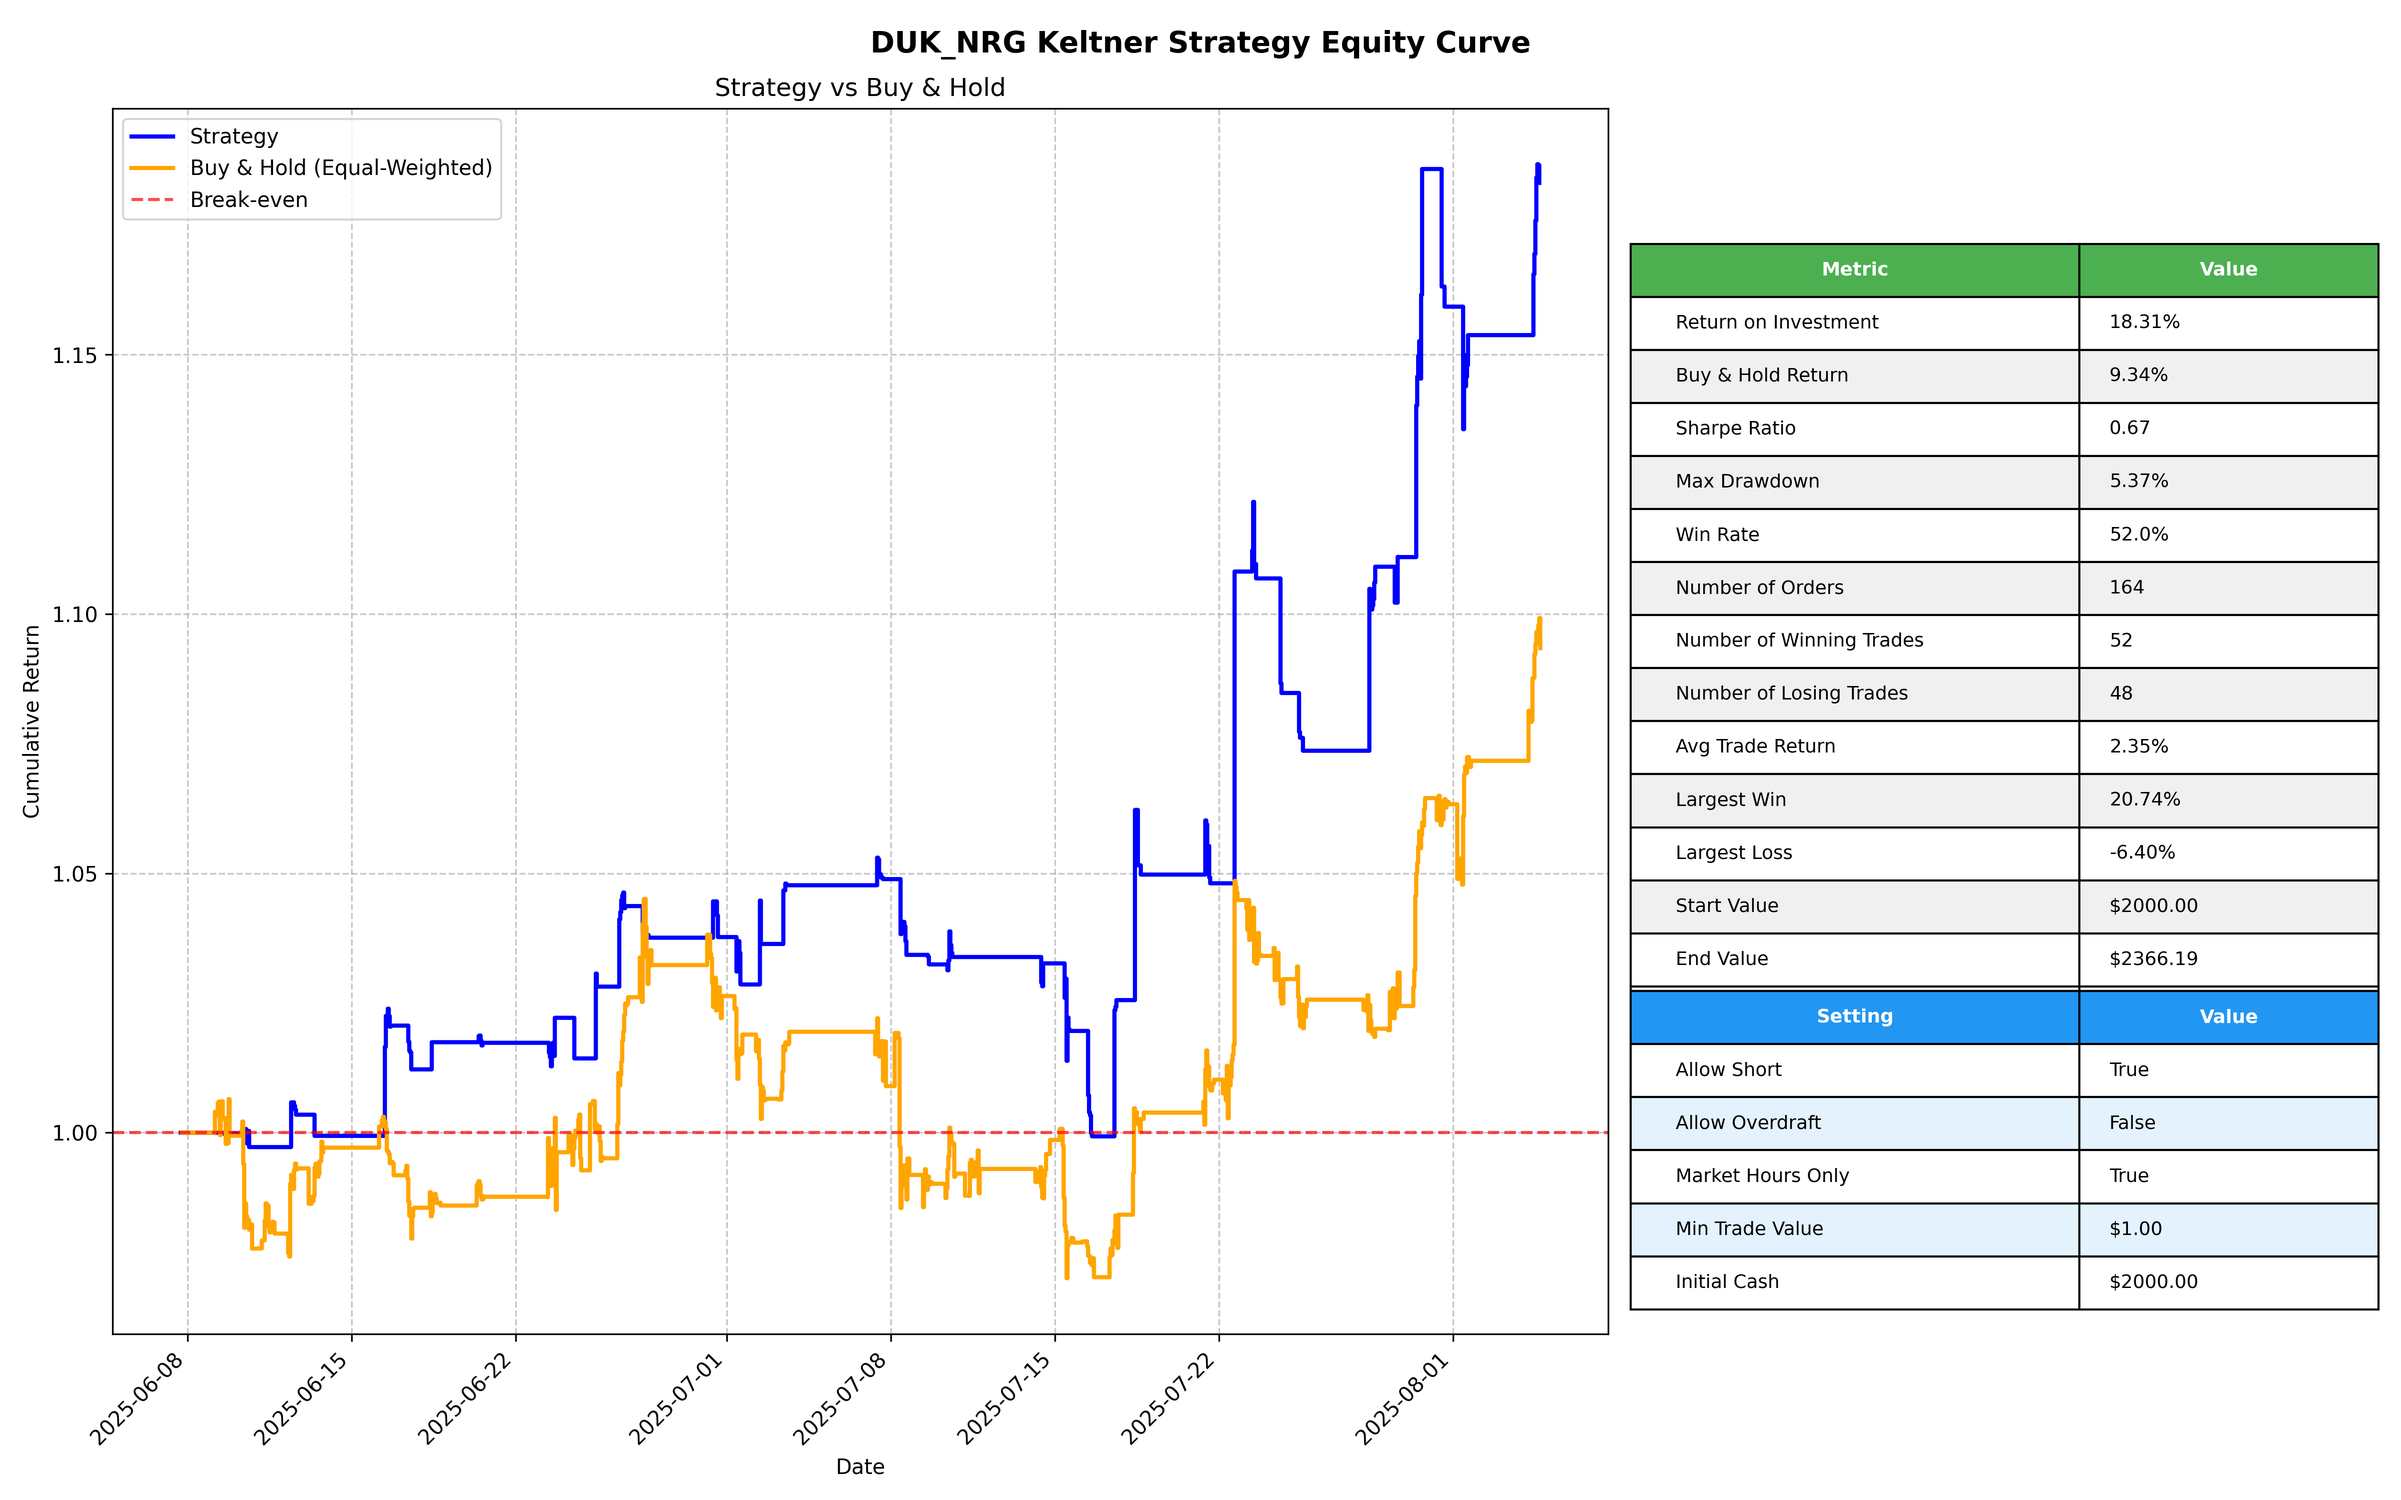
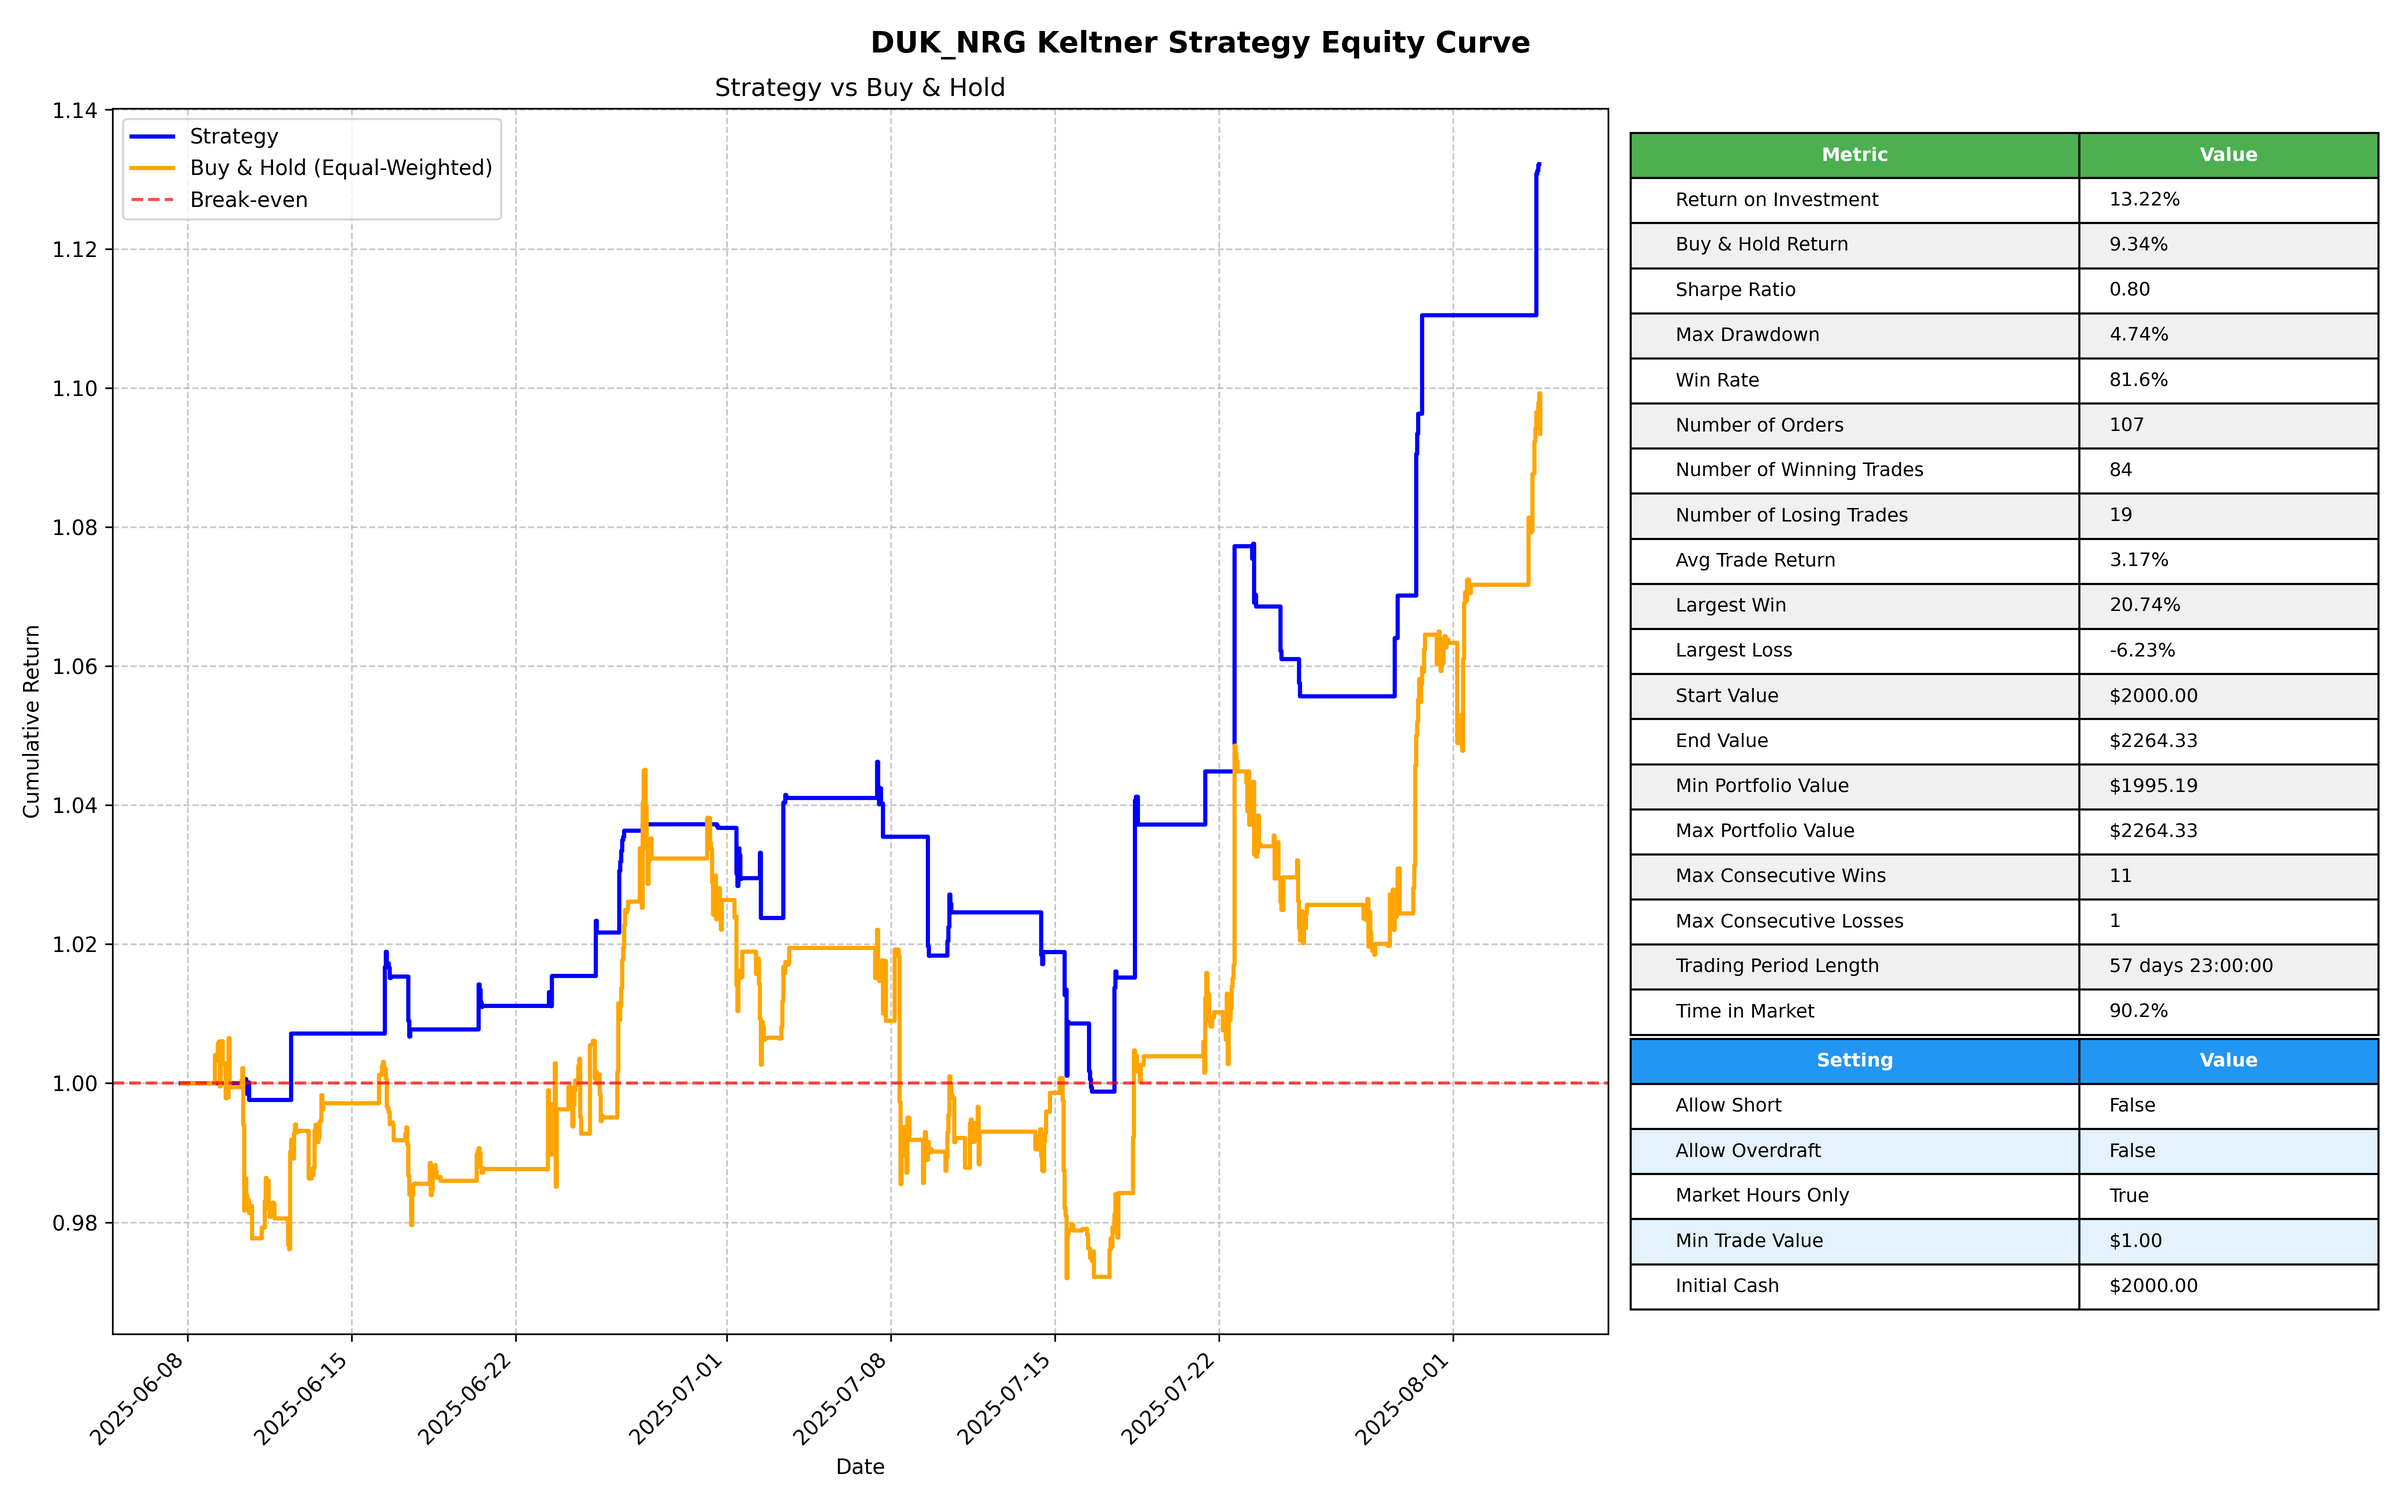
fix returns calculations

diff --git a/src/backtester.py b/src/backtester.py
@@ -995,10 +995,28 @@ class EventBacktester(ABC):
         ax2.grid(True, linestyle='--', alpha=0.7)
 
         # Subplot 3: Returns Distribution
-        ax3.hist(returns, bins=50, alpha=0.7, color='green', edgecolor='black')
-        ax3.axvline(returns.mean(), color='red', linestyle='--',
-                    label=f'Mean: {returns.mean():.4f}')
-        ax3.set_title("Returns Distribution")
+        _, net_profits = self.get_win_rate(return_net_profits=True)
+        returns = net_profits["net_profit_percentage"]
+        ax3.hist(returns, bins=10, alpha=0.7, color='green', edgecolor='black')
+
+        # Mean line
+        mean_val = returns.mean()
+        ax3.axvline(mean_val, color='red', linestyle='--',
+                    label=f'Mean: {mean_val:.4f}')
+
+        # Median line
+        # median_val = returns.median()
+        # ax3.axvline(median_val, color='orange', linestyle='-.',
+        #            label=f'Median: {median_val:.4f}')
+
+        # Std deviation lines
+        std_val = returns.std()
+        ax3.axvline(mean_val + std_val, color='purple', linestyle=':',
+                    label=f'+1 Std: {(mean_val + std_val):.4f}')
+        ax3.axvline(mean_val - std_val, color='purple', linestyle=':',
+                    label=f'-1 Std: {(mean_val - std_val):.4f}')
+
+        ax3.set_title("Trade Returns Distribution")
         ax3.set_xlabel("Return")
         ax3.set_ylabel("Frequency")
         ax3.legend()

diff --git a/examples/keltner_channel.py b/examples/keltner_channel.py
@@ -60,10 +60,11 @@ class KeltnerChannelBacktester(EventBacktester):
         close_prices = bar.loc[:, "close"]
 
         for symbol in self.active_symbols:
+            quantity = round(150 / close_prices[symbol], 4)
             if close_prices[symbol] > self.upper_bands[symbol][index]:
-                return Order(symbol, Position.SHORT, close_prices[symbol], 1)
+                return Order(symbol, Position.SHORT, close_prices[symbol], quantity)
             elif close_prices[symbol] < self.lower_bands[symbol][index]:
-                return Order(symbol, Position.LONG, close_prices[symbol], 1)
+                return Order(symbol, Position.LONG, close_prices[symbol], quantity)
 
 
 if __name__ == "__main__":
@@ -84,7 +85,7 @@ if __name__ == "__main__":
 
     # create the backtester
     backtester = KeltnerChannelBacktester(
-        symbols, cash=2000, allow_short=True, allow_overdraft=False, min_trade_value=1, market_hours_only=True)
+        symbols, cash=2000, allow_short=False, allow_overdraft=False, min_trade_value=1, market_hours_only=True)
 
     # preload the train bars
     backtester.load_train_bars(train_bars)

diff --git a/examples/ema_rsi.py b/examples/ema_rsi.py
@@ -73,21 +73,22 @@ class EmaStrategy(EventBacktester):
 
 
 if __name__ == "__main__":
+    """
     symbols = ["BTC/USD"]
     # download the bars
     bars = download_crypto_bars(symbols, start_date=datetime(
         2024, 1, 1), end_date=datetime.now() - timedelta(minutes=15), timeframe=TimeFrame.Hour)
-
-    symbols = ["DUK", "NRG"]
+    """
+    symbols = ["DTE", "NRG"]
     bars = download_bars(symbols, start_date=datetime(
-        2024, 1, 1), end_date=datetime.now() - timedelta(minutes=15), timeframe=TimeFrame.Hour)
+        2023, 7, 1), end_date=datetime.now() - timedelta(minutes=15), timeframe=TimeFrame.Hour)
     # split the bars into train and test
     train_bars, test_bars = split_multi_index_bars_train_test(
         bars, split_ratio=0.9)
 
     # create the backtester
     backtester = EmaStrategy(
-        symbols, cash=2000, allow_short=True, allow_overdraft=False, min_trade_value=1, market_hours_only=True)
+        symbols, cash=2000, allow_short=False, allow_overdraft=False, min_trade_value=1, market_hours_only=True)
 
     # preload the train bars
     backtester.load_train_bars(train_bars)

diff --git a/README.md b/README.md
@@ -2,7 +2,7 @@
 
 Bacta is a Python library for backtesting trading strategies.
 
-![Keltner Channel](img/DUK_NRG_Keltner_Strategy_Performance.png)
+![Keltner Channel](img/DTE_NRG_EMA_RSI_Strategy_Performance.png)
 
 ## Backtesting Framework
 
@@ -232,9 +232,9 @@ The framework includes a number of plotting methods for visualizing the performa
 - `plot_performance_analysis()`: Comprehensive performance dashboard
 - `plot_trade_history()`: Price charts with trade markers
 
-![Equity Curve](img/DUK_NRG_Keltner_Strategy_Equity_Curve.png)
-![Performance Analysis](img/DUK_NRG_Keltner_Strategy_Performance.png)
-![Trade History](img/DUK_NRG_Keltner_Strategy_Trades.png)
+![Equity Curve](img/DTE_NRG_EMA_RSI_Strategy_Equity_Curve.png)
+![Performance Analysis](img/DTE_NRG_EMA_RSI_Strategy_Performance.png)
+![Trade History](img/DTE_NRG_EMA_RSI_Strategy_Trades.png)
 
 ## Examples
 
